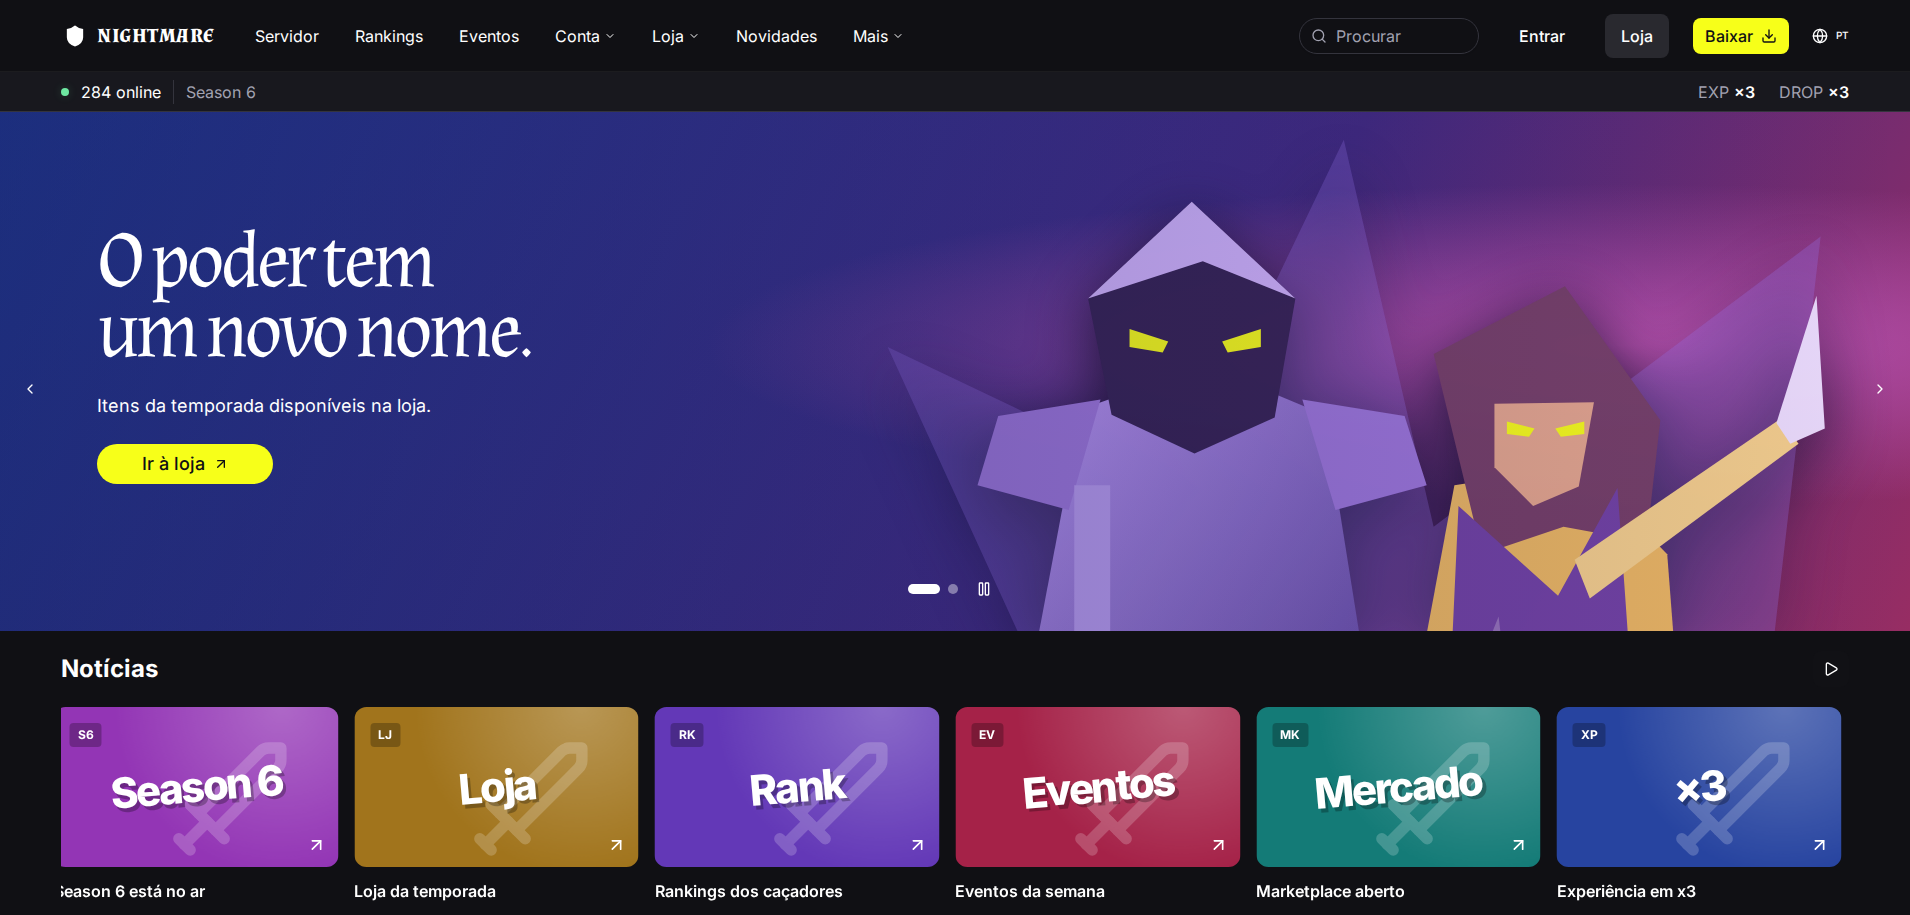
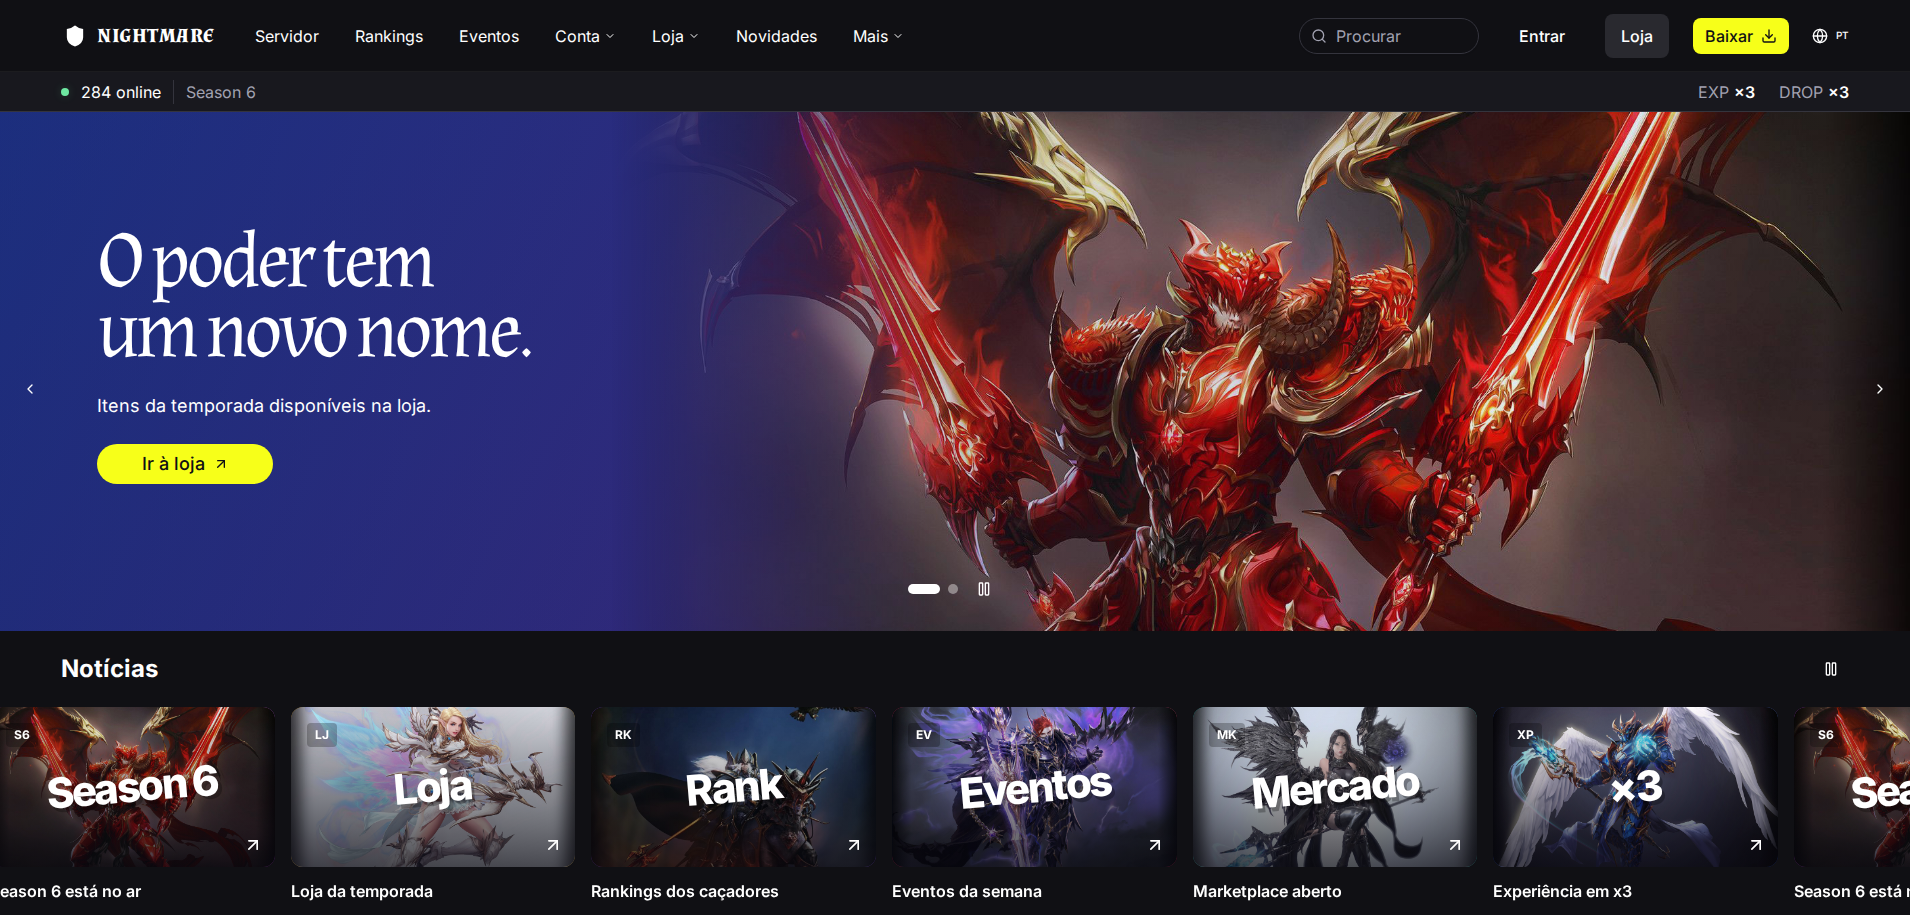
Preview MU Season 6 character artwork in hero and cards

diff --git a/src/data/content.ts b/src/data/content.ts
@@ -46,6 +46,7 @@ export const rankings = Array.from({ length: 20 }, (_, i) => ({
 export const events = [
   {
     name: "Blood Castle",
+    image: "/images/mu/dk.jpg",
     time: "14:00",
     duration: 15,
     desc: "Atravesse a ponte e recupere a arma do anjo.",
@@ -53,6 +54,7 @@ export const events = [
   },
   {
     name: "Devil Square",
+    image: "/images/mu/su.jpg",
     time: "16:30",
     duration: 20,
     desc: "Enfrente hordas e dispute o topo da arena.",
@@ -60,6 +62,7 @@ export const events = [
   },
   {
     name: "Chaos Castle",
+    image: "/images/mu/rf.jpg",
     time: "18:00",
     duration: 10,
     desc: "Sobreviva. Só um guerreiro sairá vencedor.",
@@ -67,6 +70,7 @@ export const events = [
   },
   {
     name: "Castle Siege",
+    image: "/images/mu/dl.jpg",
     time: "20:00",
     duration: 60,
     desc: "Sua guilda. Seu castelo. Seu legado.",
@@ -77,6 +81,7 @@ export const news = [
   {
     title: "Season 6 está no ar",
     poster: "Season 6",
+    image: "/images/mu/dk.jpg",
     tag: "S6",
     color: "#9335b5",
     to: "/news/season-6",
@@ -84,6 +89,7 @@ export const news = [
   {
     title: "Loja da temporada",
     poster: "Loja",
+    image: "/images/mu/el.jpg",
     tag: "LJ",
     color: "#a1741c",
     to: "/shop",
@@ -91,6 +97,7 @@ export const news = [
   {
     title: "Rankings dos caçadores",
     poster: "Rank",
+    image: "/images/mu/dl.jpg",
     tag: "RK",
     color: "#6338b7",
     to: "/stats",
@@ -98,6 +105,7 @@ export const news = [
   {
     title: "Eventos da semana",
     poster: "Eventos",
+    image: "/images/mu/mg.jpg",
     tag: "EV",
     color: "#a52248",
     to: "/events",
@@ -105,6 +113,7 @@ export const news = [
   {
     title: "Marketplace aberto",
     poster: "Mercado",
+    image: "/images/mu/su.jpg",
     tag: "MK",
     color: "#147b77",
     to: "/marketplace",
@@ -112,6 +121,7 @@ export const news = [
   {
     title: "Experiência em x3",
     poster: "×3",
+    image: "/images/mu/dw.jpg",
     tag: "XP",
     color: "#2744a0",
     to: "/server",

diff --git a/src/components/home/HeroArt.tsx b/src/components/home/HeroArt.tsx
@@ -1,47 +1,7 @@
-export function HeroArt() {
+export function HeroArt({ image = "/images/mu/dk.jpg" }: { image?: string }) {
   return (
     <div className="hero-art" aria-hidden="true">
-      <svg viewBox="0 0 760 560" preserveAspectRatio="xMaxYMin slice">
-        <defs>
-          <linearGradient id="armor" x2="1" y2="1">
-            <stop stopColor="#c3a0ff" />
-            <stop offset="1" stopColor="#49358e" />
-          </linearGradient>
-        </defs>
-        <path
-          fill="#9973ee"
-          opacity=".3"
-          d="M180 520 20 170l210 100L350 20l65 280 280-210-50 430z"
-        />
-        <g transform="translate(70 30)">
-          <path fill="url(#armor)" d="m90 185 90-32 86 36 55 345H24z" />
-          <path fill="#352355" d="m95 105 75-70 75 70-15 86-58 26-60-28z" />
-          <path fill="#d1b5ff" d="m95 105 75-70 75 70-67-27z" />
-          <path
-            fill="#f7ff19"
-            d="m125 127 28 9-4 8-24-4zm67 9 28-9v13l-24 4z"
-          />
-          <path
-            fill="#9c77dc"
-            d="m30 190 74-12-23 80-66-18zm220-12 74 12 16 50-66 18z"
-          />
-          <path fill="#b69bef" d="M85 240h26v277H85z" />
-        </g>
-        <g transform="translate(340 100)">
-          <path fill="#ebb963" d="m90 170 92-14 62 64 23 299H25z" />
-          <path fill="#744068" d="m75 75 95-49 69 97-10 88-60-11-59 20z" />
-          <path fill="#e4a88e" d="m119 111 72-1-11 61-33 14-28-28z" />
-          <path fill="#f7ff19" d="m128 124 20 5-4 6-16-2zm35 5 21-5v9l-17 2z" />
-          <path fill="#7043a5" d="m93 185 72 65 43-78 24 337H78z" />
-          <path fill="#f4d18d" d="m177 224 149-102 13 18-151 112z" />
-          <path fill="#ece0ff" d="m323 125 29-92 6 96-25 11z" />
-        </g>
-        <path
-          fill="#ffffff"
-          opacity=".25"
-          d="m420 400 20-20 10 15 12-30 5 43 20 12-50 6z"
-        />
-      </svg>
+      <img src={image} alt="" fetchPriority="high" />
     </div>
   );
 }

diff --git a/src/index.css b/src/index.css
@@ -172,15 +172,17 @@ a {
   position: absolute;
   right: 0;
   bottom: 0;
-  width: 55%;
+  width: 68%;
   height: 100%;
   overflow: hidden;
-  opacity: 0.95;
+  opacity: 1;
+  mask-image: linear-gradient(to right, transparent, black 25%);
 }
-.hero-art svg {
+.hero-art img {
   width: 100%;
   height: 100%;
-  filter: drop-shadow(0 16px 32px #181131);
+  object-fit: cover;
+  object-position: center 30%;
 }
 .poster {
   position: relative;
@@ -194,7 +196,27 @@ a {
   align-items: center;
   justify-content: center;
 }
+.poster-image {
+  position: absolute;
+  inset: 0;
+  width: 100%;
+  height: 100%;
+  object-fit: cover;
+  object-position: center 35%;
+}
+.poster:has(.poster-image)::after {
+  content: "";
+  position: absolute;
+  inset: 0;
+  background: linear-gradient(transparent, #080810b8);
+}
+.poster > span,
+.poster h3,
+.poster > svg {
+  z-index: 1;
+}
 .poster h3 {
+  position: relative;
   font-size: 46px;
   line-height: 0.92;
   font-weight: 800;
@@ -291,6 +313,9 @@ a {
   .hero-art {
     width: 90%;
     opacity: 0.35;
+  }
+  .hero-art img {
+    object-position: left top;
   }
   .section {
     margin-top: 40px;

diff --git a/src/components/home/NewsCard.tsx b/src/components/home/NewsCard.tsx
@@ -9,6 +9,7 @@ export function NewsCard({
   color,
   to,
   duplicate = false,
+  image,
 }: {
   title: string;
   poster: string;
@@ -16,6 +17,7 @@ export function NewsCard({
   color: string;
   to: string;
   duplicate?: boolean;
+  image?: string;
 }) {
   return (
     <Link to={to} className="group" tabIndex={duplicate ? -1 : undefined}>
@@ -23,7 +25,11 @@ export function NewsCard({
         className="poster transition-transform group-hover:-translate-y-1"
         style={{ "--poster-color": color } as CSSProperties}
       >
-        <Sword />
+        {image ? (
+          <img className="poster-image" src={image} alt="" loading="lazy" />
+        ) : (
+          <Sword />
+        )}
         <span className="absolute left-4 top-4 rounded bg-black/25 px-2 py-1 text-xs font-bold">
           <Translated text={tag} />
         </span>

diff --git a/src/components/home/Hero.tsx b/src/components/home/Hero.tsx
@@ -13,6 +13,7 @@ import { HeroArt } from "./HeroArt";
 const slides = [
   {
     label: "NIGHTMARE × LOJA",
+    image: "/images/mu/dk.jpg",
     title: (
       <>
         <Translated text="O poder tem" />
@@ -26,6 +27,7 @@ const slides = [
   },
   {
     label: "BEM-VINDO AO PESADELO",
+    image: "/images/mu/dw.jpg",
     title: (
       <>
         <Translated text="Nightmare" />
@@ -61,7 +63,7 @@ export function Hero() {
       aria-label="Destaques"
       aria-roledescription="carrossel"
     >
-      <HeroArt />
+      <HeroArt image={slide.image} />
       <div className="hero-content">
         <p className="mb-7 text-sm font-bold tracking-[.2em]">
           <Translated text={slide.label} />

diff --git a/src/pages/HomePage.tsx b/src/pages/HomePage.tsx
@@ -37,6 +37,7 @@ export function HomePage() {
                 poster={e.name}
                 tag={e.time + " · hoje"}
                 color={e.color}
+                image={e.image}
                 to="/events"
               />
             ))}

diff --git a/public/images/mu/SOURCES.md b/public/images/mu/SOURCES.md
@@ -1,0 +1,6 @@
+# Imagens para estudo visual
+
+Wallpapers de classes de MU Online Season 6, 1920 × 1640.
+Galeria: https://mu.lv/media/wallpapers
+Originais: https://mu.lv/assets/mulv/images/gallery-{dk,dw,el,mg,dl,su,rf}.jpg
+Créditos: Webzen / MU.lv conforme a página de origem. Nenhuma licença de redistribuição foi confirmada; assets de referência temporários para o protótipo.
